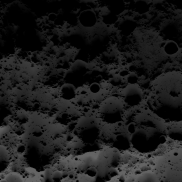
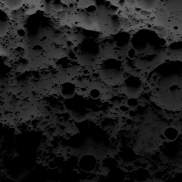
[T24] Match web manifest types; store PNGs top row = highest y
Review found pgda-layers.json nested source/resolutionM and the PNG row order
differed from web/src/engine types and fixture. Flatten the manifest and flip
the stored PNGs; add tests for manifest keys and the flipped build.

diff --git a/pipeline/src/lunarnav/pgda_layers.py b/pipeline/src/lunarnav/pgda_layers.py
@@ -2,7 +2,9 @@
 
 Each 120 m PGDA raster is area-averaged onto the grid cells (not point-sampled),
 so a layer value is the mean over its 2 km cell, NOT the value at a site.
-Layout matches grid-*.bin: row 0 is the lowest y, column 0 the lowest x.
+In memory the layout matches grid-*.bin (row 0 = lowest y, column 0 = lowest x).
+The PNGs are stored flipped so the top image row is the highest y, as the web
+fixture and types expect: pixel (col ix, row ny - 1 - iy) is grid cell (iy, ix).
 """
 
 import struct
@@ -106,17 +108,16 @@ def layers_manifest(
         "nx": nx,
         "ny": ny,
         "layers": {"sun": "pgda-sun.png", "earth": "pgda-earth.png"},
-        "encoding": "8-bit grayscale; value = whole percent of time 0-100; 255 = no data",
-        "rowOrder": "image row 0 = lowest y, column 0 = lowest x (same as "
-        "grid-*.bin); flip vertically to draw a y-up map",
+        "encoding": "8-bit grayscale, value = percent (whole, 0-100; 255 = no data); "
+        "top PNG row = highest y",
+        "rowOrder": "top PNG row = highest y, left column = lowest x; grid cell "
+        "(iy, ix) is pixel (column ix, row ny - 1 - iy)",
         "resampling": f"mean of {SUBSAMPLES_PER_AXIS}x{SUBSAMPLES_PER_AXIS} bilinear "
         "samples per cell (area average, not a site value)",
-        "source": {
-            "product": "NASA PGDA product 69, average visibility, 75S, 120 m, 2016-08",
-            "url": "https://pgda.gsfc.nasa.gov/products/69",
-            "files": [PGDA_SUN_LBL.stem, PGDA_EARTH_LBL.stem],
-            "resolutionM": 120,
-        },
+        "source": "NASA PGDA product 69 (https://pgda.gsfc.nasa.gov/products/69), "
+        "average visibility 75S 120 m 2016-08",
+        "sourceFiles": [PGDA_SUN_LBL.stem, PGDA_EARTH_LBL.stem],
+        "resolutionM": 120,
         "definition": "Fraction of time any part of the Sun/Earth disk is visible "
         "(PGDA label wording); differs from our mean Sun fraction / Earth-center "
         "validation definitions.",
@@ -141,8 +142,8 @@ def build_layers(
 
 def main() -> None:
     sun_u8, earth_u8 = build_layers(PdsRaster(PGDA_SUN_LBL), PdsRaster(PGDA_EARTH_LBL))
-    write_gray_png(PGDA_SUN_PNG, sun_u8)
-    write_gray_png(PGDA_EARTH_PNG, earth_u8)
+    write_gray_png(PGDA_SUN_PNG, np.flipud(sun_u8))
+    write_gray_png(PGDA_EARTH_PNG, np.flipud(earth_u8))
     write_json(
         PGDA_LAYERS_JSON,
         layers_manifest(GRID_CELL_KM, GRID_NX, GRID_NY, GRID_ORIGIN_KM),

diff --git a/pipeline/tests/test_pgda_layers.py b/pipeline/tests/test_pgda_layers.py
@@ -142,6 +142,16 @@ def test_manifest_matches_grid_extent_and_states_limits():
     assert manifest["observerHeightM"] is None  # unknown until #57, never invented
 
 
+def test_manifest_keys_match_web_contract_types():
+    # web/src/engine/types.ts PgdaLayersManifest (source and resolutionM are flat).
+    m = layers_manifest(2, 182, 182, (-182, -182))
+    assert isinstance(m["source"], str)
+    assert m["resolutionM"] == 120
+    assert m["schemaVersion"] == 1
+    assert m["projection"] == "polar-stereographic-south"
+    assert "top PNG row = highest y" in m["encoding"]
+
+
 def test_build_layers_encodes_both_rasters(tmp_path):
     sun = write_visibility(tmp_path, np.full((100, 100), 10000))  # 0.4
     sun_u8, earth_u8 = build_layers(sun, sun, 2.0, 2, 2, (-2.0, -2.0))
@@ -202,3 +212,14 @@ def test_committed_layers_match_manifest_and_pole():
         pole = pixels[manifest["ny"] // 2 - 1 : manifest["ny"] // 2 + 1]
         pole = pole[:, manifest["nx"] // 2 - 1 : manifest["nx"] // 2 + 1]
         assert abs(float(pole.mean()) - pole_pct) <= 6  # 2 km mean, not the pole point
+
+
+@needs_pgda
+def test_committed_pngs_are_the_y_flipped_build():
+    data_dir = Path(__file__).resolve().parents[2] / "web/public/data"
+    built = build_layers(
+        PdsRaster(REAL / "AVGVISIB_75S_120M_201608.LBL"),
+        PdsRaster(REAL / "AVGVISIB_75S_120M_201608_EARTH.LBL"),
+    )
+    for name, expected in zip(("pgda-sun.png", "pgda-earth.png"), built, strict=True):
+        np.testing.assert_array_equal(np.flipud(decode_png(data_dir / name)), expected)
